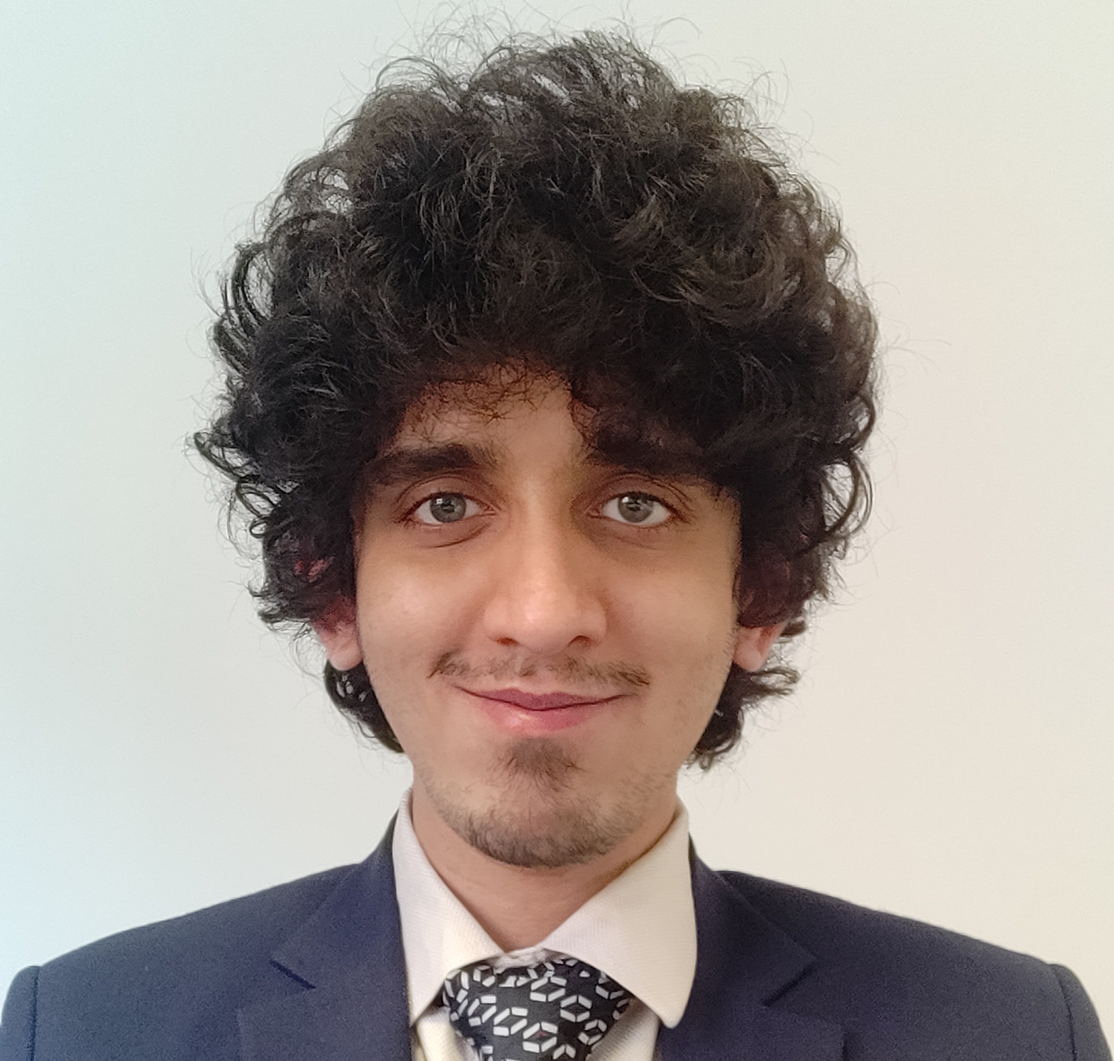
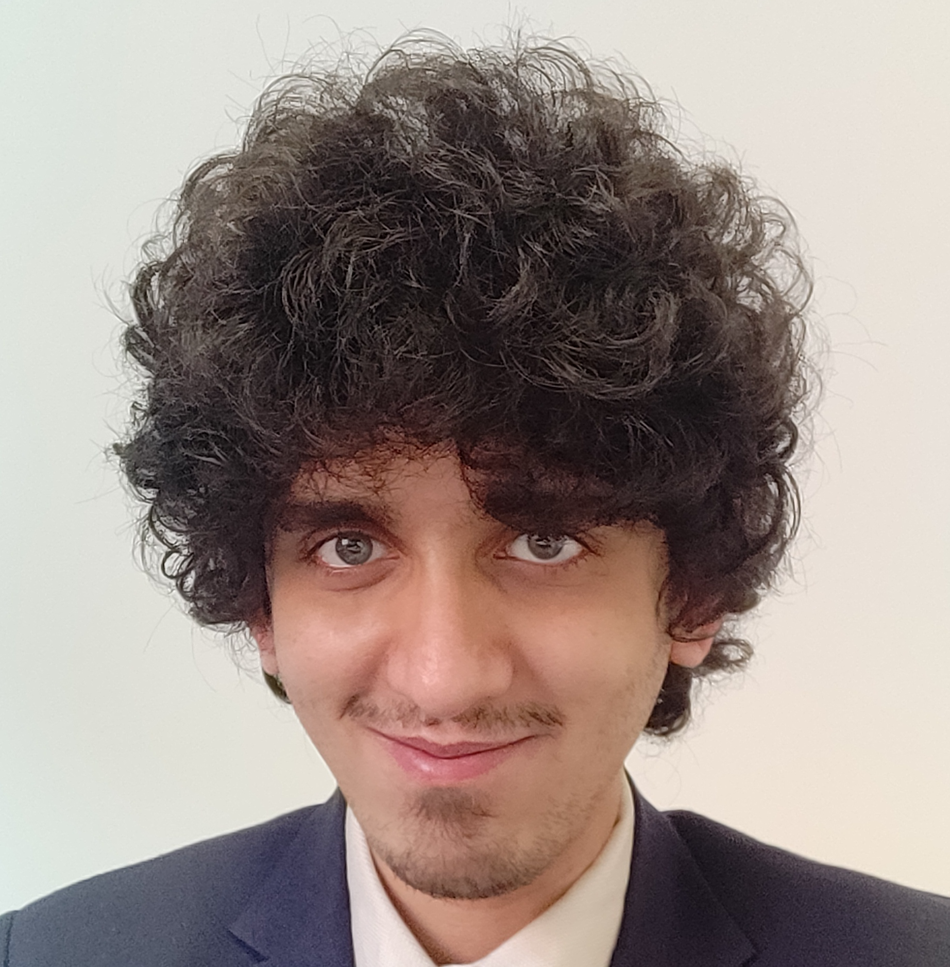
update 4

diff --git a/index.html b/index.html
@@ -62,7 +62,7 @@
       <div class="cover bg-image"><img src="images/header-background.jpg"/>
         <div class="mask" style="background-color: rgba(0, 0, 0, 0.7);backdrop-filter: blur(2px);">
           <div class="text-center p-5">
-            <div class="avatar p-1"><img class="img-thumbnail shadow-2-strong" src="images/avatar2.jpg" width="160" height="160"/></div>
+            <div class="avatar p-1"><img class="img-thumbnail shadow-2-strong" src="images/avatar.jpg" width="160" height="160"/></div>
             <div class="header-bio mt-3">
               <div data-aos="zoom-in" data-aos-delay="0">
                 <h2 class="h1">Aditya Shirodkar</h2>
@@ -300,6 +300,7 @@
       </div>
     </div>
   </div>
+
       <div class="shadow-1-strong bg-white my-5 p-5" id="skills">
     <div class="skills-section">
       <h2 class="h2 fw-light mb-4">Professional Skills</h2>
